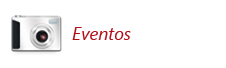
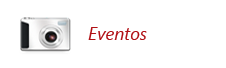
commit29

Changed region(s): [[0.031, 0.2059, 0.6504, 0.7647]]

diff --git a/html/index.html b/html/index.html
@@ -620,21 +620,24 @@
         
         <div id="logo">
 
-            <a href="https://br924.hostgator.com.br:2096/" target="_blank"><img src="../img/email.png" alt="Imagem webmail" ></a>
-
+            <a href="https://br924.hostgator.com.br:2096/" target="_blank">
+            <img src="../img/email.png" onMouseOver="this.src='../img/email-2.png';" onMouseOut="this.src='../img/email.png';"/></a>
+            
         </div>
         
         <hr>
 
     <div id="logo">
-
-        <a href="../img/construção.png" target="_blank"><img src="../img/curriculo2.png" alt="Imagem Trabalhe Conosco" ></a>
+        
+        <a href="../img/construção.png" target="_blank">
+        <img src="../img/curriculo2.png" onMouseOver="this.src='../img/curriculo2-2.png';" onMouseOut="this.src='../img/curriculo2.png';"/></a>
 
     </div>    
 
         <div id="logo">
 
-            <a href="../img/construção.png" target="_blank"><img src="../img/eventos.png" alt="Imagem Eventos" ></a>
+            <a href="../img/construção.png" target="_blank">
+            <img src="../img/eventos.png" onMouseOver="this.src='../img/eventos-2.png';" onMouseOut="this.src='../img/eventos.png';"/></a>
 
         </div>
     

diff --git a/css/style.css b/css/style.css
@@ -11,11 +11,11 @@
     }
 
     button{
-      position: absolute;
-      top:5%;
-       left:65%;
-       width: 120px;
-       height: 30px;
+        position: absolute;
+        top:5%;
+        left:65%;
+        width: 120px;
+        height: 30px;
         cursor: pointer;
     }
 
@@ -43,7 +43,6 @@
         
         color: white;
         background-color: #b11116;
-
         border-top-color: #b11116;
         border-right-color: #b11116;
         border-bottom-color: #b11116;
